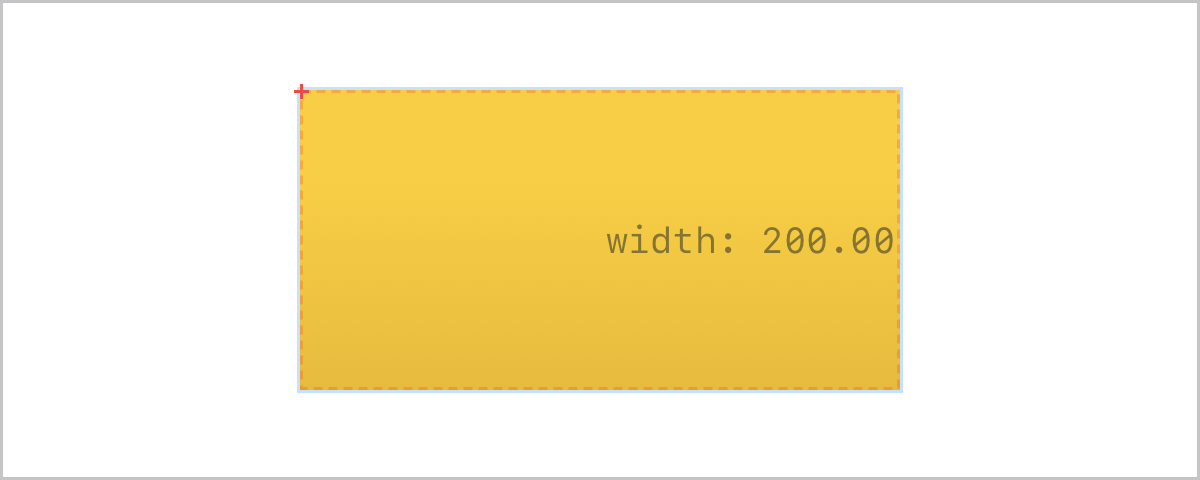
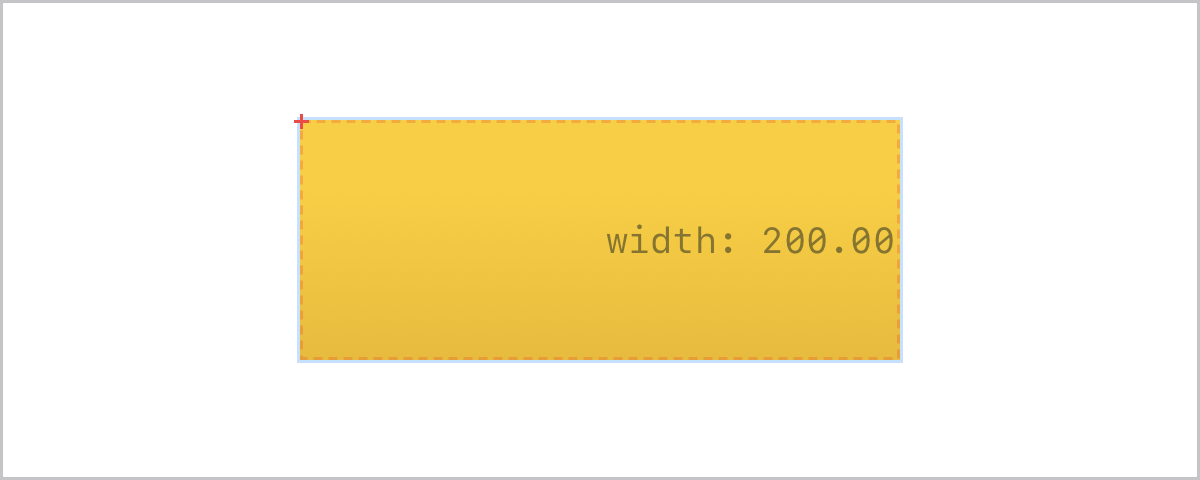
adjust simpleTraits image

Changed region(s): [[0.2467, 0.1562, 0.7708, 0.2812], [0.2467, 0.7188, 0.7708, 0.8438]]

diff --git a/sources/modifiers/DebugOverlayModifier.swift b/sources/modifiers/DebugOverlayModifier.swift
@@ -35,7 +35,7 @@ import SwiftUI
 /// ```swift
 /// Rectangle()
 /// .fill(.yellow.gradient)
-/// .frame(width: 200, height: 100)
+/// .frame(width: 200, height: 80)
 /// .debugOverlay(
 ///     .hairline,                 // sets debug borders width to 1
 ///     .width,                    // prints width of the parent view

diff --git a/tests/documentation-renders/forDebugOverlay.swift b/tests/documentation-renders/forDebugOverlay.swift
@@ -28,7 +28,7 @@ struct RendersForDebugOverlay {
         let resource = try DocumentationRenderer.render("debug-overlay", "simple-traits", height: 160) {
             Rectangle()
             .fill(.yellow.gradient)
-            .frame(width: 200, height: 100)
+            .frame(width: 200, height: 80)
             .debugOverlay(
                 .hairline,                 // sets debug borders width to 1
                 .width,                    // prints width of the parent view